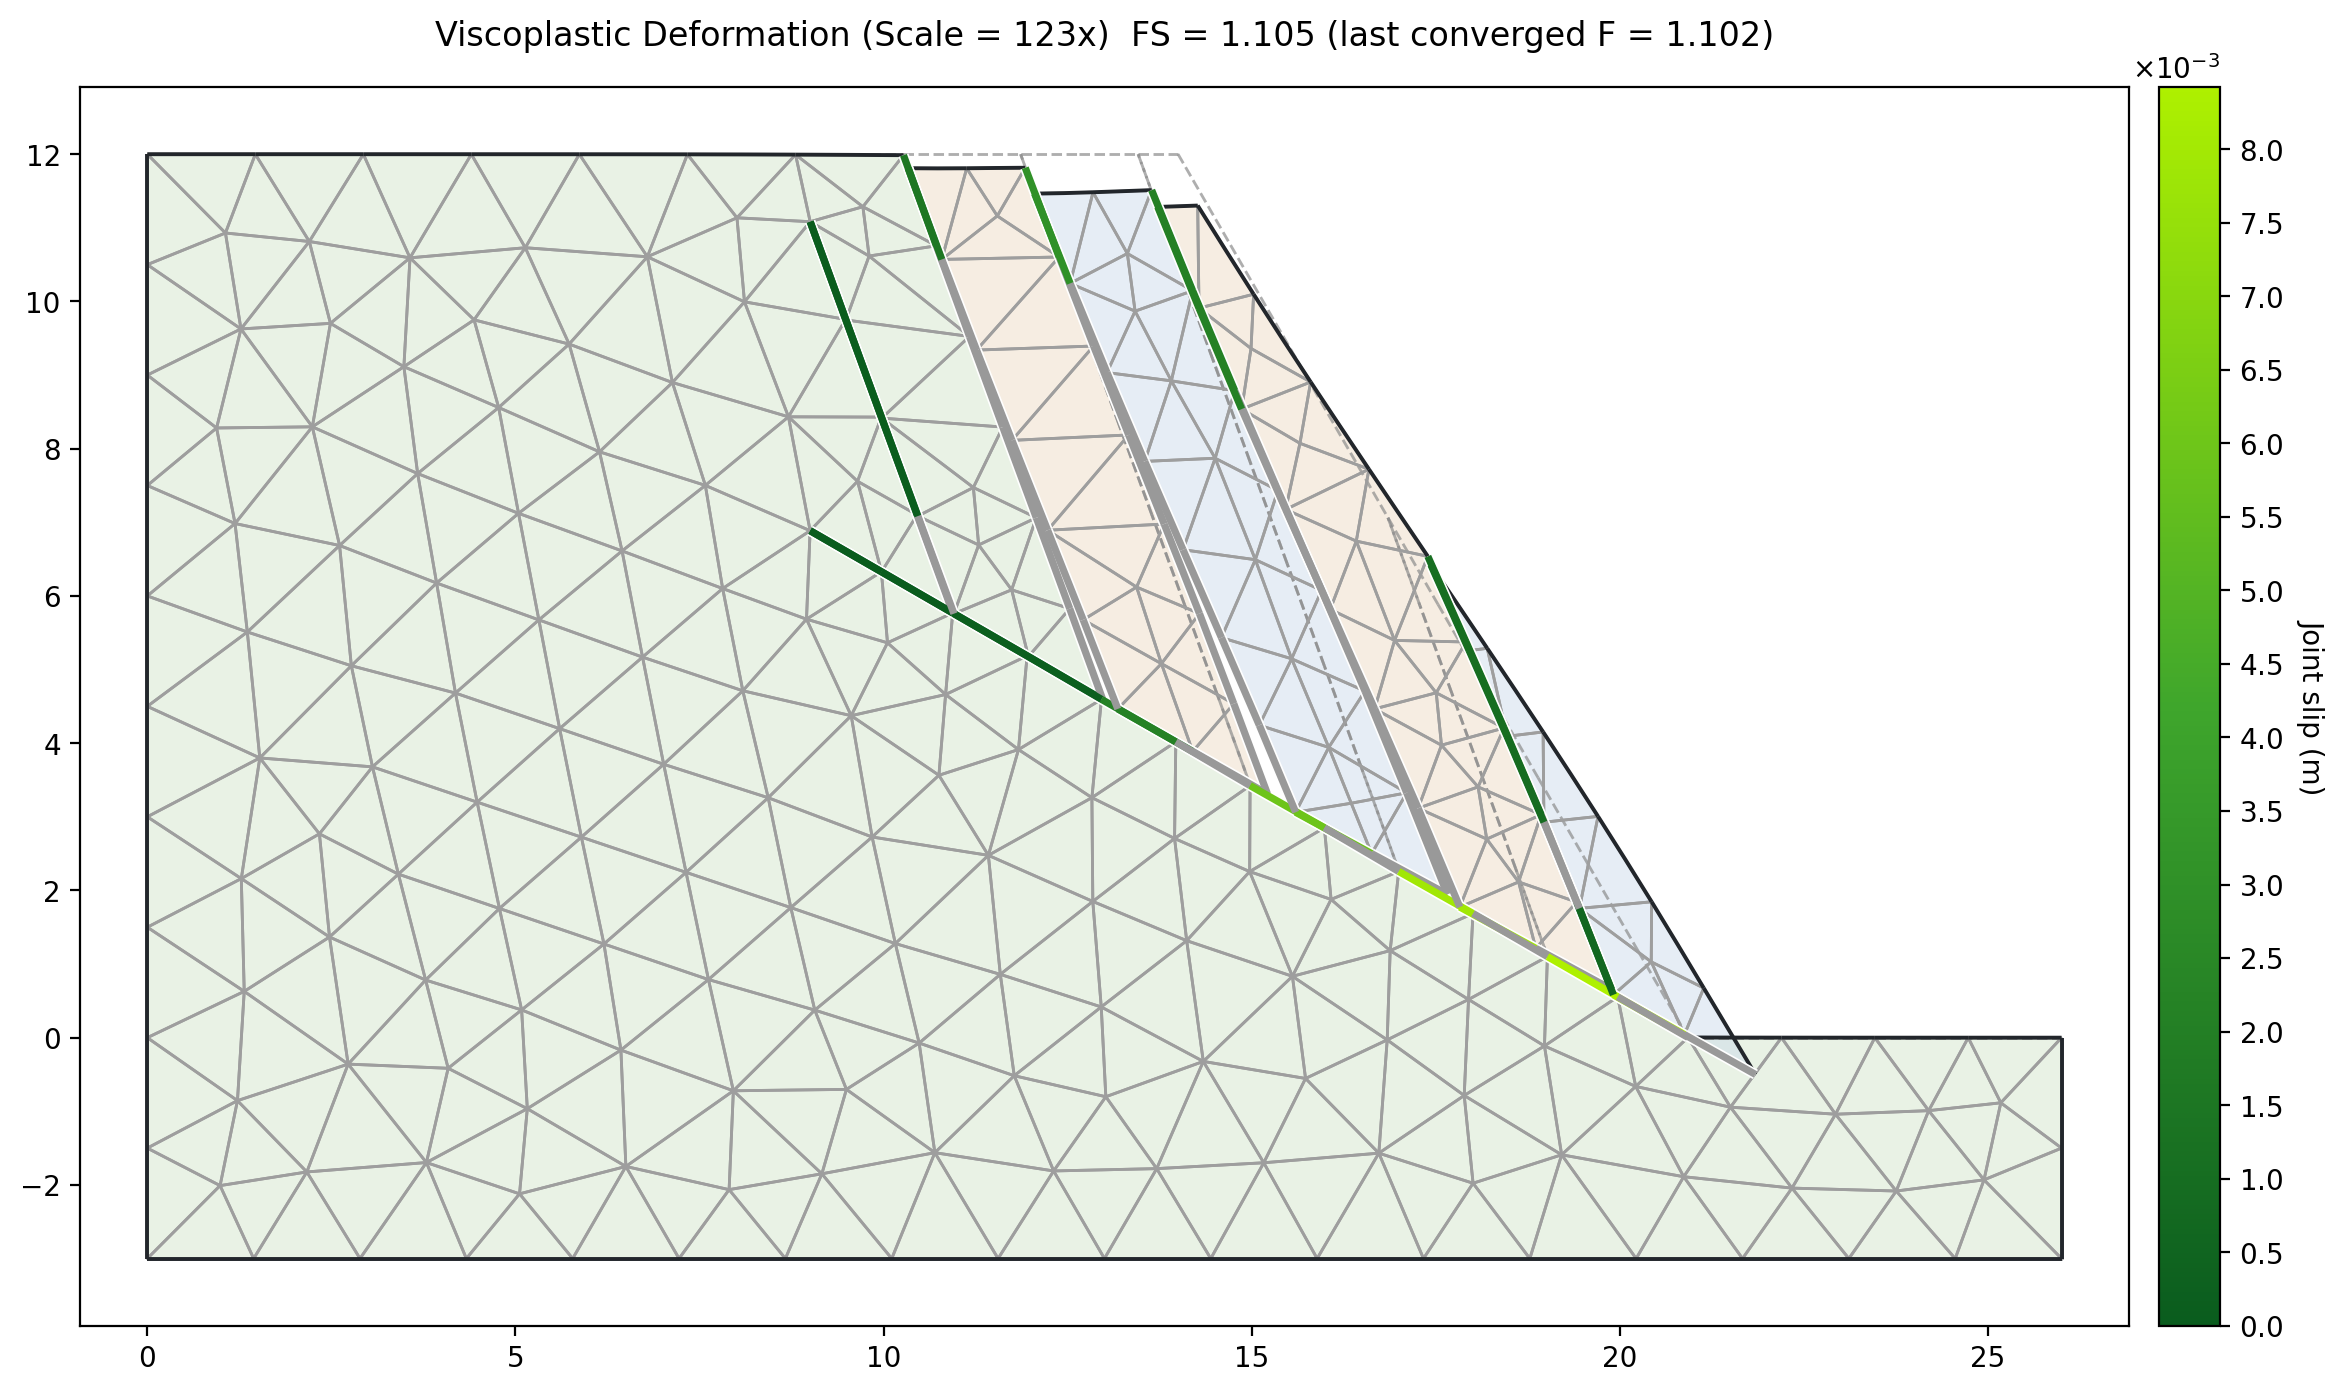
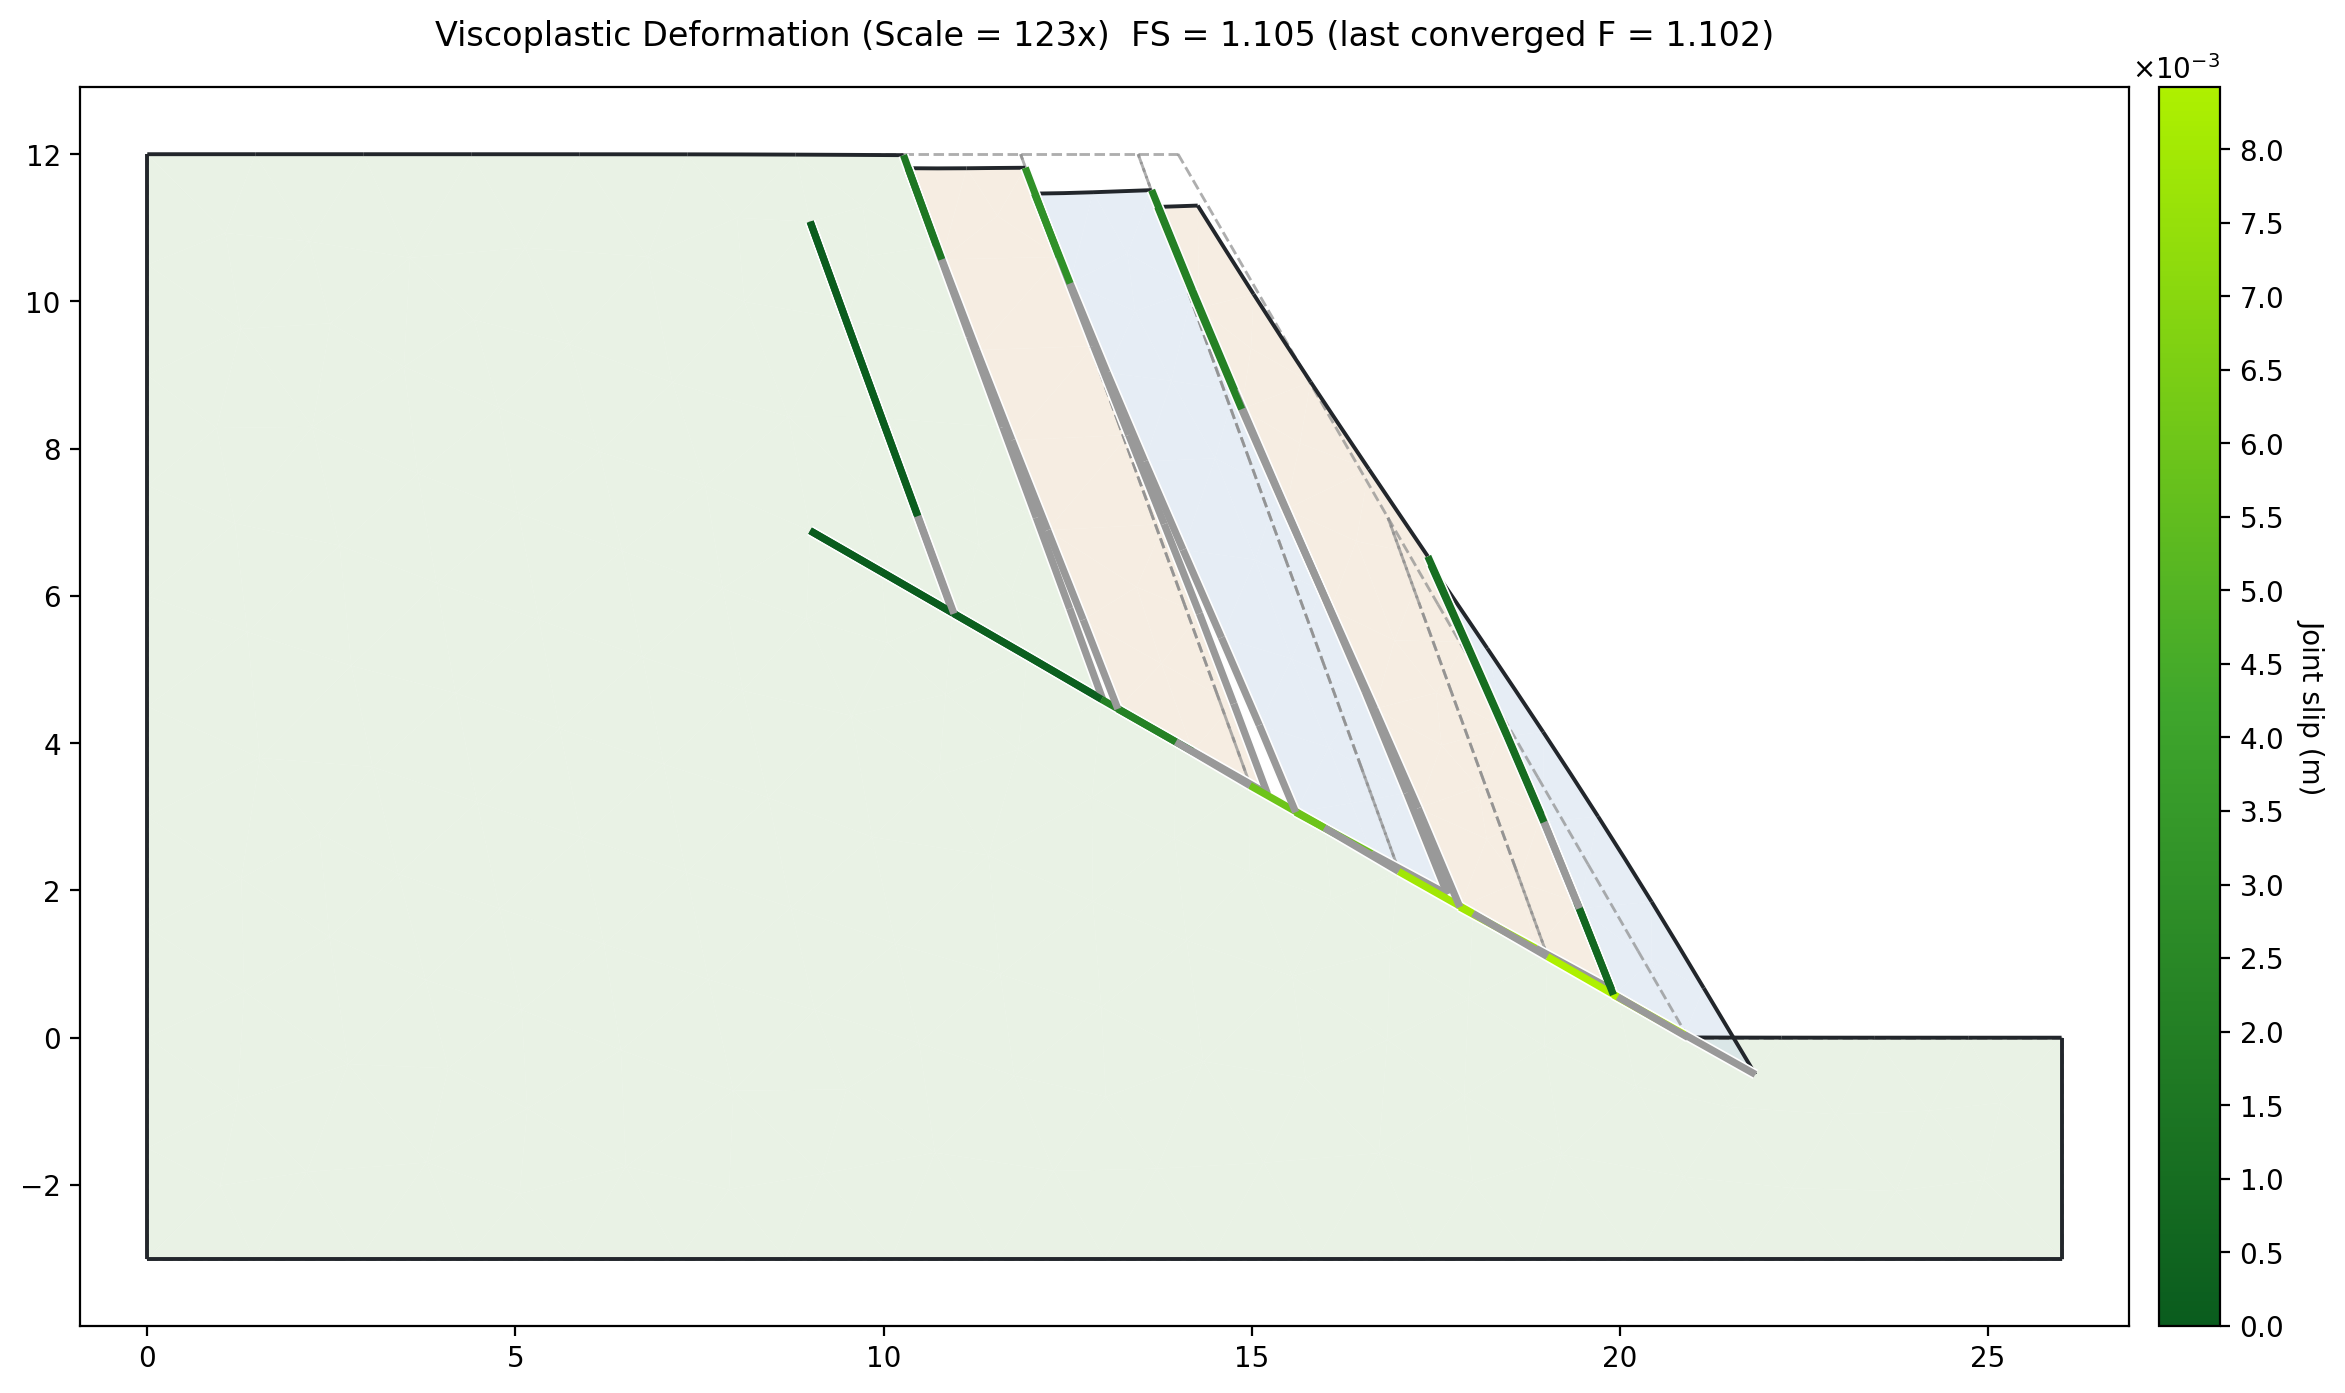
docs(joints): two block drawings, edges on with one tint and edges off colored by block
Claude-Session: https://claude.ai/code/session_01XjjT2aBxw8gY7EFdpoUcpj

diff --git a/tools/make_tutorial_figures.py b/tools/make_tutorial_figures.py
@@ -7195,11 +7195,10 @@ def combo03_rapid():
 
 
 def fem05_blocks_grid_pair():
-    """The toppling stack's block drawing twice for the joints page: with the
-    element grid under the blocks (the default for a model with eight or fewer
-    jointed lines) and without it, and once more with Color by block on, all at
-    the same at-failure state and factor as the tutorial's own block figure,
-    which this group also rewrites."""
+    """The toppling stack's block drawing twice for the joints page: the
+    tutorial's own figure (element grid on, one tint per material), which this
+    group rewrites, and the other way round (grid off, Color by block on), at
+    the same at-failure state and factor."""
     from xslope.plot_fem import plot_fem_results
     model = load_slope_data(FEM05_TOPPLE)
     mesh_t = _fem05_mesh(model)
@@ -7208,12 +7207,9 @@ def fem05_blocks_grid_pair():
     capture("fem05_fem_blocks_topple.png", plot_fem_results, fem_t,
             result_t["last_solution"], plot_type="deformation",
             fs=result_t["FS"])
-    capture("fem05_fem_blocks_topple_nogrid.png", plot_fem_results, fem_t,
-            result_t["last_solution"], plot_type="deformation",
-            fs=result_t["FS"], block_grid=False)
     capture("fem05_fem_blocks_topple_colored.png", plot_fem_results, fem_t,
             result_t["last_solution"], plot_type="deformation",
-            fs=result_t["FS"], color_blocks=True)
+            fs=result_t["FS"], block_grid=False, color_blocks=True)
 
 
 GROUPS = {

diff --git a/docs/fem/joints.md b/docs/fem/joints.md
@@ -391,13 +391,9 @@ either way. **Color by block** sets the fill: off (the default), one tint per ma
 block under its own tint so the bodies can be told apart. The toppling stack of Tutorial FEM-5
 with the grid on and off:
 
-![The Deformed mesh panel of the toppling stack at its critical factor, with the element grid under the blocks, the default for a model with eight or fewer jointed lines](../tutorials/images/fem05_fem_blocks_topple.png){width=900}
+![The Deformed mesh panel of the toppling stack at its critical factor with Element edges on and Color by block off: the grid under the blocks, one tint for the one material](../tutorials/images/fem05_fem_blocks_topple.png){width=900}
 
-![The same panel with the element grid off, the default above eight jointed lines: the joint faces, the deformed outline and the dashed undeformed outline remain](../tutorials/images/fem05_fem_blocks_topple_nogrid.png){width=900}
-
-And with **Color by block** on:
-
-![The same panel with Color by block on: the four columns alternating two tints and the mass a third, so each body can be told from its neighbors](../tutorials/images/fem05_fem_blocks_topple_colored.png){width=900}
+![The same panel with Element edges off and Color by block on: the four columns alternating two tints and the mass a third](../tutorials/images/fem05_fem_blocks_topple_colored.png){width=900}
 
 With Show joints off the panel draws the ordinary deformed mesh. The **Displacement vectors**
 panel is the same as on any other model.
